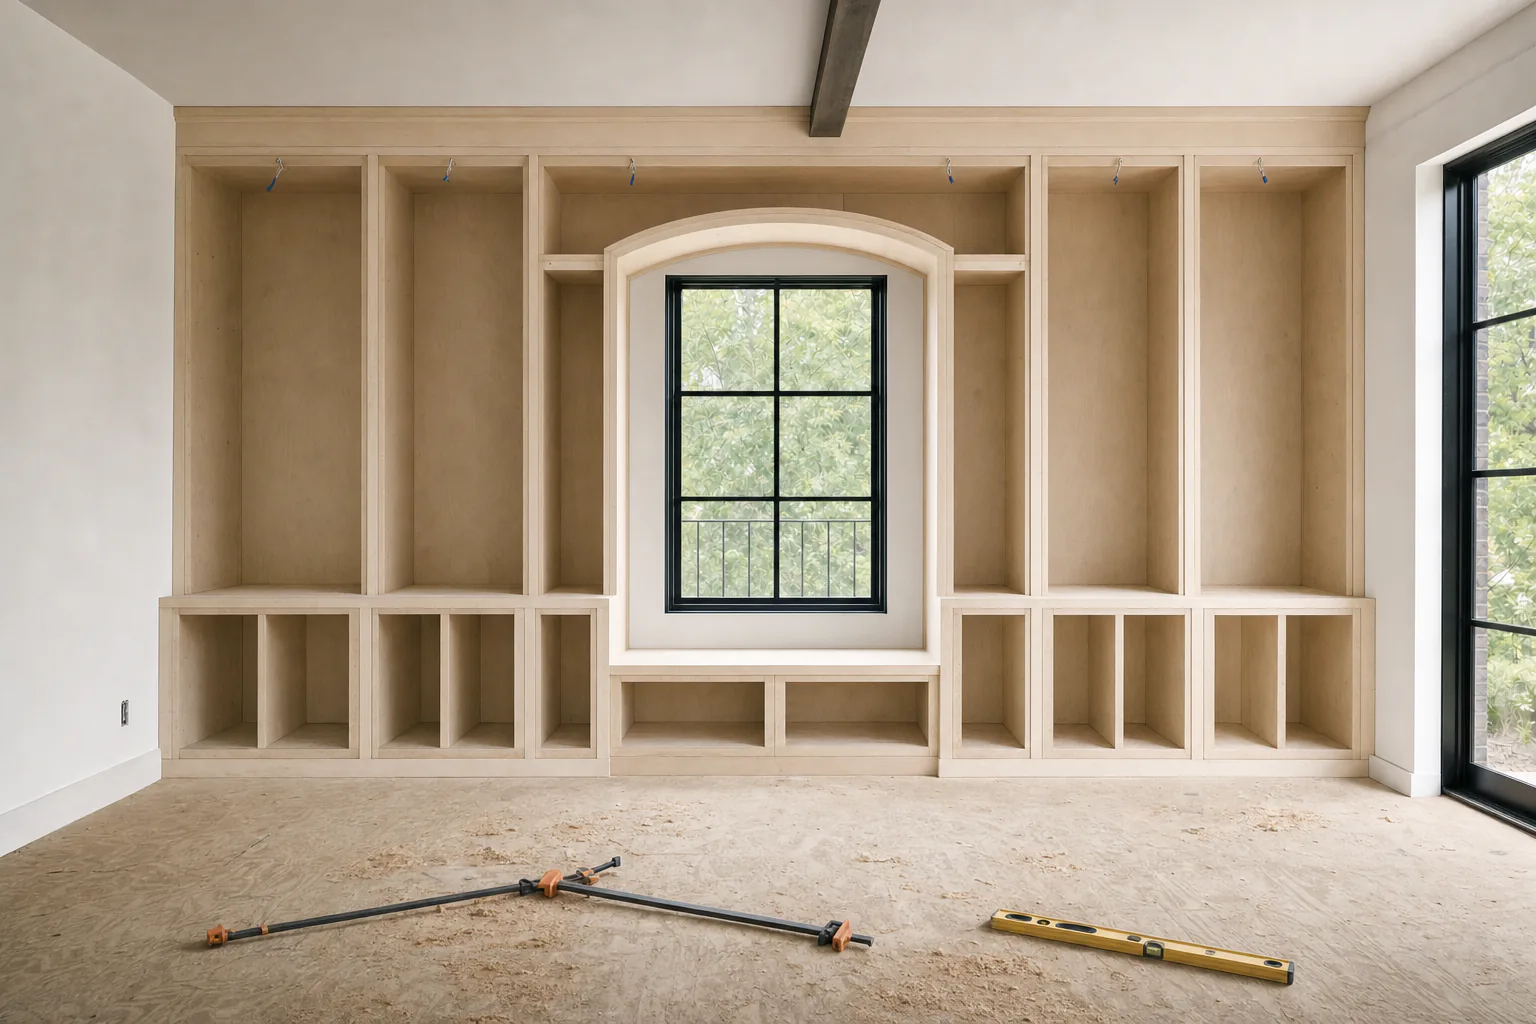
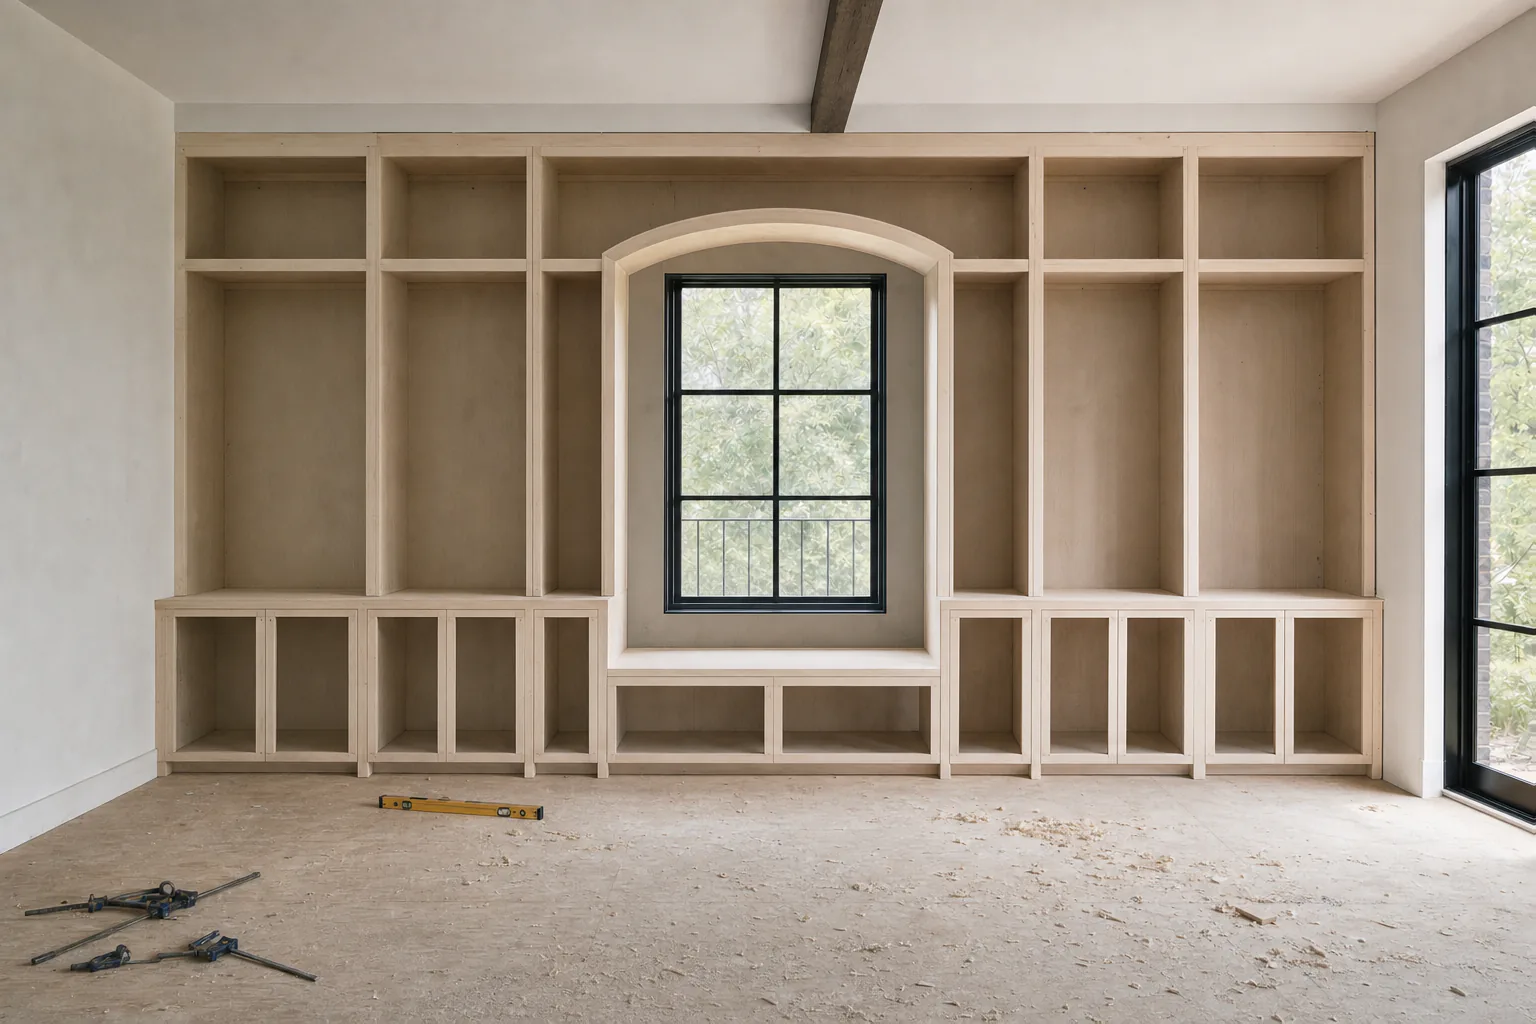
fix(cabinetry): match the library build stages to the finished room
The first library chain drifted to a taller room with a smaller window, so
the wall reshaped mid-wipe at casework to cabinetry. Regenerate framing,
drywall and casework with the window, niche and wall pinned, and align them
to the cabinetry frame; the window now sits within 1 px in every stage.

Record image spend ($4.59 of the $5 cap over 26 calls), alignment per room
and the latest verification in the docs. The motion check now opens the
phone menu before navigating, takes a pixel ratio per page, and gains a NAV
mode that times the phone menu navigation on its own.

diff --git a/docs/demos/cabinetry.md b/docs/demos/cabinetry.md
@@ -72,20 +72,34 @@ sessionStorage. Nothing is sent anywhere.
 
 ## Generated imagery
 
-The hero's seven images are generated, not photographs, and say so (a line
-under the progress bar, the footer and `/photography`).
+The three build films are generated, not photographs, and say so (a line
+under each film's progress bar, the home room frames, the footer and
+`/photography`).
 
 - `scripts/cabinetry/generate_hero.py` calls `gpt-image-2` (1536x1024, high)
-  with the key in `.env.local`. `finished` is generated; `cabinetry`,
-  `drywall`, `roughin` and `framing` are each an edit of the stage after it;
-  `blueprint` and `wireframe` are edits of `finished`. Prompts, token usage
-  and cost for every call are in `output/cabinetry/hero/ledger.json`.
-- Approved budget $5 (Matthew, 2026-10-19). Spent: **$1.23**, seven calls, no
-  retries.
-- Alignment was measured with SIFT and affine fits: neighbouring stages agree
-  within about 1.5 px, so no warping is applied.
+  with the key in `.env.local`. For each room, `finished` is generated and each
+  earlier stage is an edit of the stage after it (kitchen: cabinetry, drywall,
+  roughin, framing; bath: vanity, drywall, roughin, framing; library:
+  cabinetry, boxes, drywall, framing). `blueprint`, `wireframe` and `evening`
+  are edits of `finished`. Prompts, token usage and cost for every call are in
+  `output/cabinetry/hero/ledger.json`.
+- Approved budget $5 (Matthew, 2026-10-19). Spent: **$4.59** over 26 calls:
+  kitchen 7 ($1.23), bath 8 ($1.41), library 11 ($1.94). The library's
+  framing, drywall and casework stages were generated twice: the first chain
+  drifted to a taller room with a smaller window, which would have reshaped
+  the wall mid-wipe. The prompts now pin the window, niche and wall
+  (`KEEP_WINDOW`); the first versions are kept as `*.v1.png`.
+- `scripts/cabinetry/align_check.py` matches each stage to `finished` (or
+  `--to` a neighbour) on SIFT features inside the window area that every stage
+  shares, and with `--fix` warps a stage more than 2 px out onto that frame
+  (`<stage>.aligned.png`). Kitchen: within 1.5 px, no warps. Bath: roughin,
+  drywall and framing warped (framing from its window box, since SIFT found
+  too little in common with bare studs). Library: boxes and drywall warped to
+  `cabinetry`, framing to the aligned drywall; afterwards the window frame
+  measures 222 px wide, centred within 1 px, in every stage.
 - `scripts/cabinetry/hero_assets.py` writes `public/demos/cabinetry/hero/*.webp`
-  (about 1.2 MB in all) and the lander `preview.jpg`.
+  (kitchen) and `hero/bath/`, `hero/library/` (about 1.2, 0.9 and 1.2 MB), using
+  the aligned version where there is one, and the lander `preview.jpg`.
 
 ## Photography and licensing
 
@@ -134,11 +148,28 @@ prices, and connect the consultation request (the state in
 
 ## Verification
 
-`npm run lint` (no new warnings), `tsc -b`, both Vite builds and
-`scripts/verify-demo-build.mjs` pass; `test-demo-access.mjs` (33),
-`test-demo-preview.mjs` and `test-demo-admin.mjs` (22) pass. Browser checks:
-every hero chapter at 1440x900 and 390x844 by timeline position, a mid-wipe
-frame, the kitchens anatomy and consultation brief, and no horizontal overflow
-on any page at 390 or 360. Not checked in a browser: the reduced-motion
-layout (CSS and JS paths reviewed only) and the scrub's feel at full frame rate
-(the browser pane was hidden, which throttles animation frames).
+Last run 2026-10-21, after the library stages were regenerated.
+
+- `npm run build` (`tsc -b`, both Vite builds, `verify-demo-build.mjs`: 19
+  documents) and `npm run lint` (no errors; the 4 warnings are in other
+  projects' files) pass; `test-demo-access.mjs` (33/33) and
+  `test-demo-preview.mjs` pass.
+- `scripts/cabinetry/motion-check.mjs` (headless Chrome over the DevTools
+  protocol; run with `node --experimental-websocket` on Node 20) scrolls six
+  pages at desktop 1x, desktop 4x CPU and phone 4x: no frame over 50 ms and no
+  long animation frame during any scroll; CLS 0 everywhere except
+  `/tambour/baths` at 0.0023; INP 32 ms desktop, phone 32 ms in isolation with
+  one 192 ms outlier in a full run (three repeats of the same sequence stayed
+  under 40 ms). Long frames remain at load: about 120 to 200 ms at 4x, the
+  first React render. Reduced motion emulated: the same text on every page,
+  and the build films' step buttons are replaced by the static chapter list.
+  Page transitions run and focus moves to the new page's heading on desktop
+  and phone (through the menu).
+- Screenshots by timeline position: every chapter and mid-wipe frame of the
+  three films at 1440x900 and 390x844, and the home room frames mid-wipe.
+- `NAV=1` / `NAV=full` time the phone menu navigation alone; `SHOTS=` takes
+  positioned screenshots (see the script header).
+
+Not checked: real phones and tablets (only emulation), Safari and Firefox
+(Chrome only; where View Transitions are missing, pages swap instantly), and
+how the motion reads to someone seeing the site cold.
